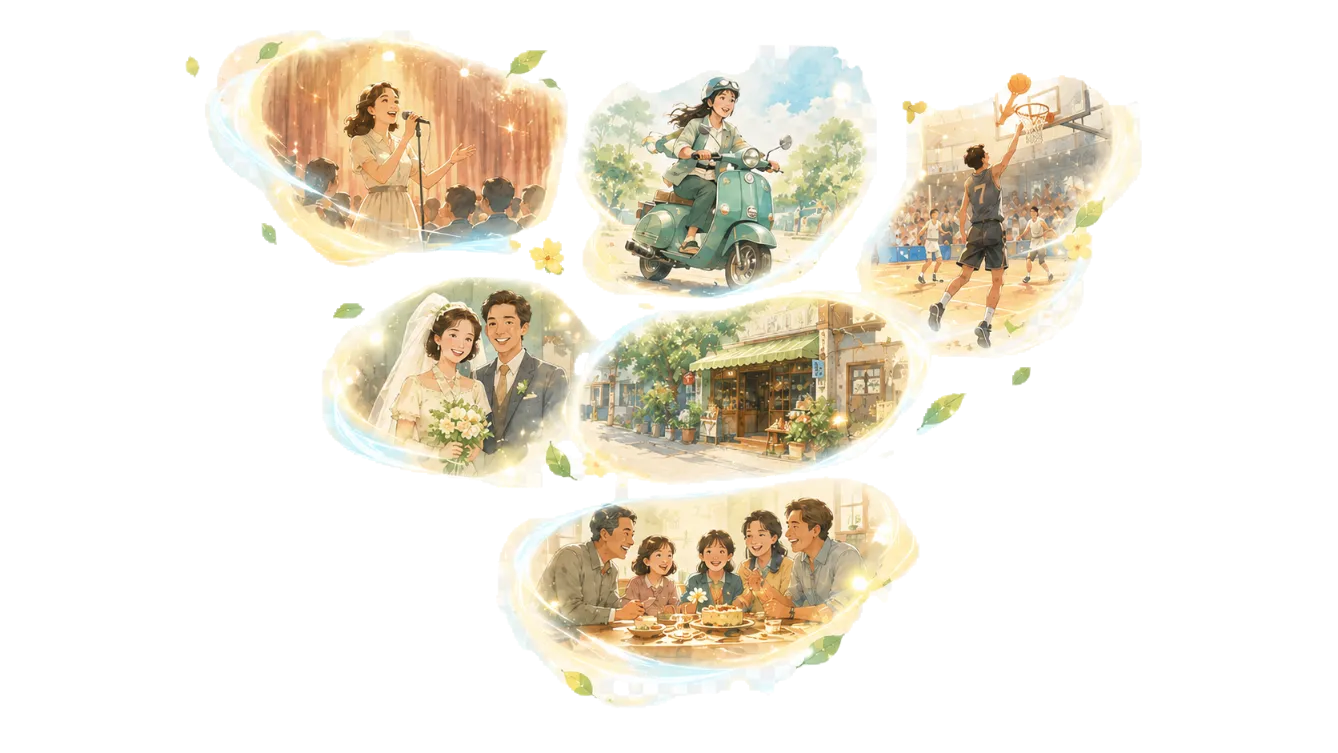
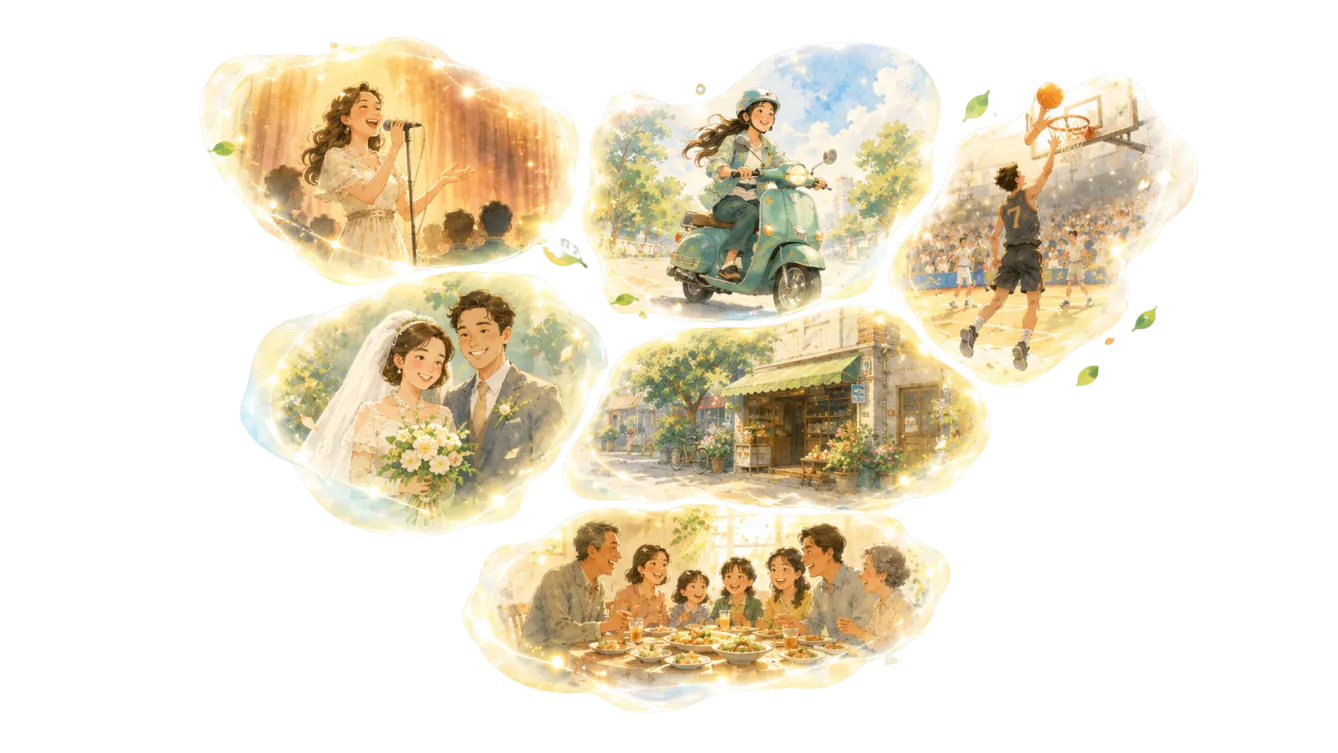
更新活動主視覺動態

diff --git a/assets/css/style.css b/assets/css/style.css
@@ -1845,3 +1845,100 @@ img{max-width:100%;display:block}
     }
   }
 }
+
+
+/* v8.12 Memory bubble clarity fix
+   Reason: v8.11 blur + large mobile scale made the memory bubble look soft on iPhone.
+   This version restores the original sharp asset, removes blur, and keeps only subtle motion.
+*/
+.campaign-dynamic-visual .campaign-memory-layer{
+  display:none !important;
+}
+
+/* Desktop: keep confirmed Option B layout, remove blur, keep gentle breathing */
+.campaign-dynamic-visual .campaign-memory-group{
+  position:absolute;
+  width:82% !important;
+  max-width:none !important;
+  left:50% !important;
+  top:2.5% !important;
+  z-index:8 !important;
+  opacity:.98 !important;
+  pointer-events:none !important;
+  transform-origin:center center !important;
+  backface-visibility:hidden;
+  will-change:transform;
+  image-rendering:auto;
+  mix-blend-mode:normal;
+  filter:
+    drop-shadow(0 0 10px rgba(255,244,204,.18))
+    drop-shadow(0 12px 20px rgba(115,92,45,.06))
+    brightness(1.01)
+    saturate(.99) !important;
+  animation:memoryBubbleClearBreathV812Desktop 8.6s ease-in-out infinite !important;
+}
+
+/* Mobile: prioritize sharpness. No blur, no large scale animation. */
+@media (max-width:767px){
+  .campaign-dynamic-visual .campaign-memory-group{
+    width:152% !important;
+    max-width:none !important;
+    left:50% !important;
+    top:2% !important;
+    z-index:8 !important;
+    opacity:.98 !important;
+    transform-origin:center center !important;
+    backface-visibility:hidden;
+    will-change:transform;
+    image-rendering:auto;
+    filter:
+      drop-shadow(0 0 8px rgba(255,244,204,.16))
+      drop-shadow(0 8px 14px rgba(115,92,45,.05))
+      brightness(1.01)
+      saturate(.99) !important;
+    animation:memoryBubbleClearFloatV812Mobile 8.8s ease-in-out infinite !important;
+  }
+}
+
+@keyframes memoryBubbleClearBreathV812Desktop{
+  0%{
+    transform:translateX(-50%) translateY(0) scale(1);
+  }
+  38%{
+    transform:translateX(-50%) translateY(-5px) scale(1.018);
+  }
+  72%{
+    transform:translateX(-50%) translateY(3px) scale(.992);
+  }
+  100%{
+    transform:translateX(-50%) translateY(0) scale(1);
+  }
+}
+
+@keyframes memoryBubbleClearFloatV812Mobile{
+  0%{
+    transform:translateX(-50%) translateY(0) scale(1.04);
+  }
+  40%{
+    transform:translateX(-50%) translateY(-4px) scale(1.04);
+  }
+  75%{
+    transform:translateX(-50%) translateY(3px) scale(1.04);
+  }
+  100%{
+    transform:translateX(-50%) translateY(0) scale(1.04);
+  }
+}
+
+@media (prefers-reduced-motion:reduce){
+  .campaign-dynamic-visual .campaign-memory-group{
+    animation:none !important;
+    transform:translateX(-50%) scale(1) !important;
+  }
+
+  @media (max-width:767px){
+    .campaign-dynamic-visual .campaign-memory-group{
+      transform:translateX(-50%) scale(1.04) !important;
+    }
+  }
+}

diff --git a/index.html b/index.html
@@ -8,7 +8,7 @@
   <link rel="preconnect" href="https://fonts.googleapis.com">
   <link rel="preconnect" href="https://fonts.gstatic.com" crossorigin>
   <link href="https://fonts.googleapis.com/css2?family=Noto+Sans+TC:wght@400;500;700;800;900&display=swap" rel="stylesheet">
-  <link rel="stylesheet" href="assets/css/style.css?v=20260611v8_11" />
+  <link rel="stylesheet" href="assets/css/style.css?v=20260612v8_12" />
 </head>
 <body>
   <header class="site-header" aria-label="GO HEALTH 網站導覽">
@@ -182,6 +182,6 @@
     </div>
   </footer>
 
-  <script src="assets/js/app.js?v=20260611v8_11"></script>
+  <script src="assets/js/app.js?v=20260612v8_12"></script>
 </body>
 </html>